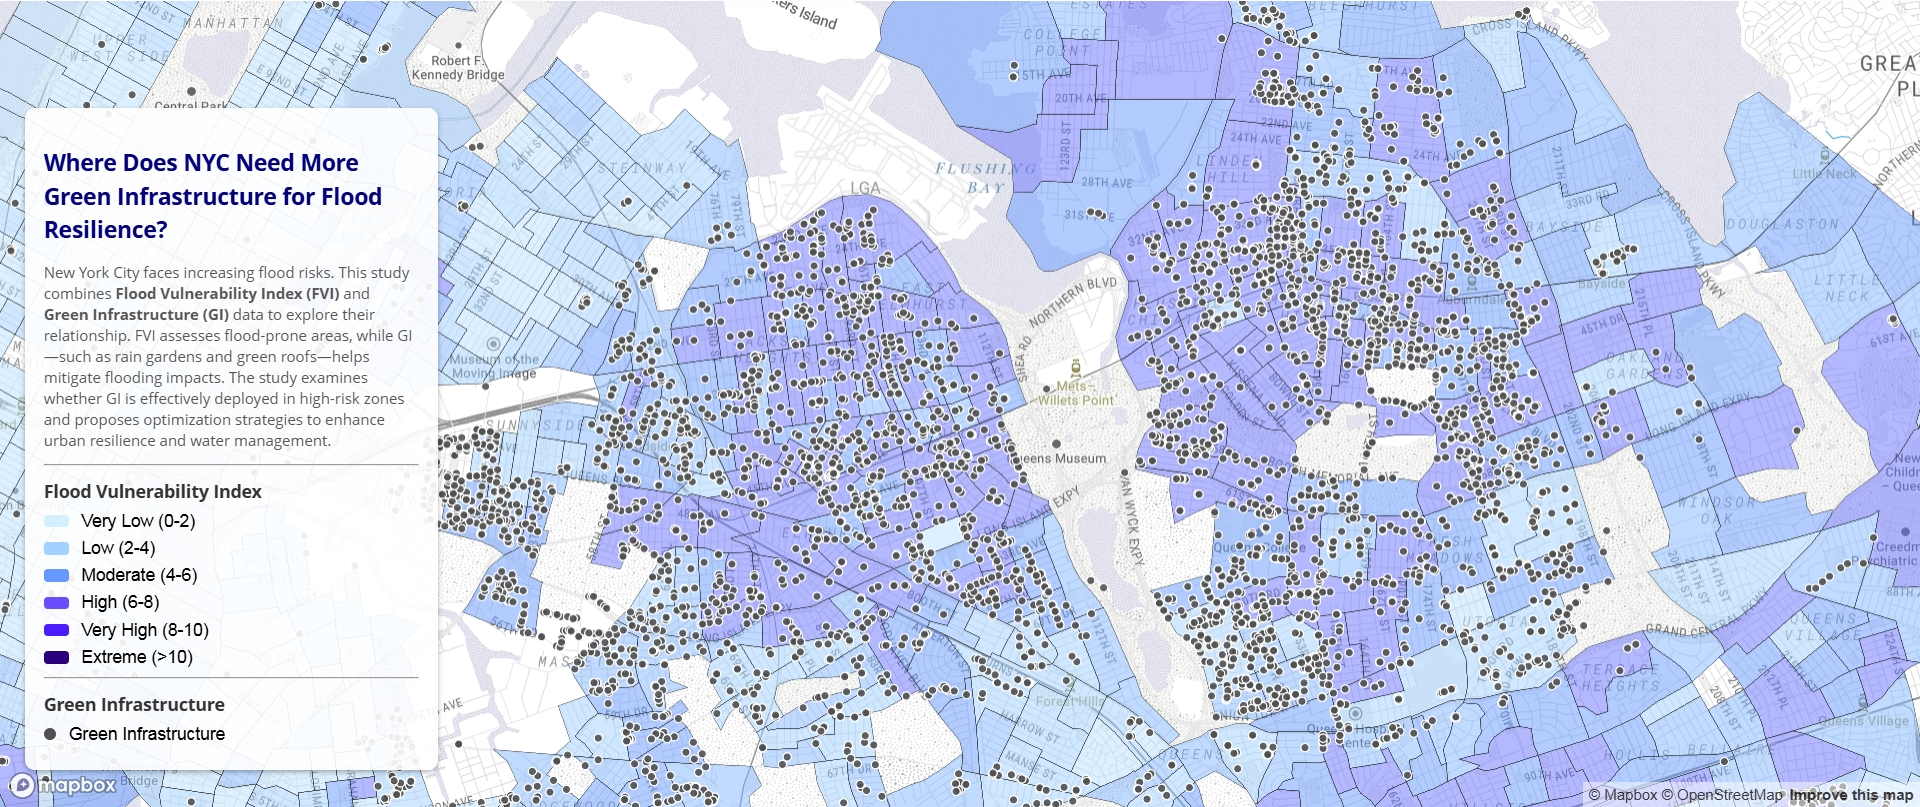
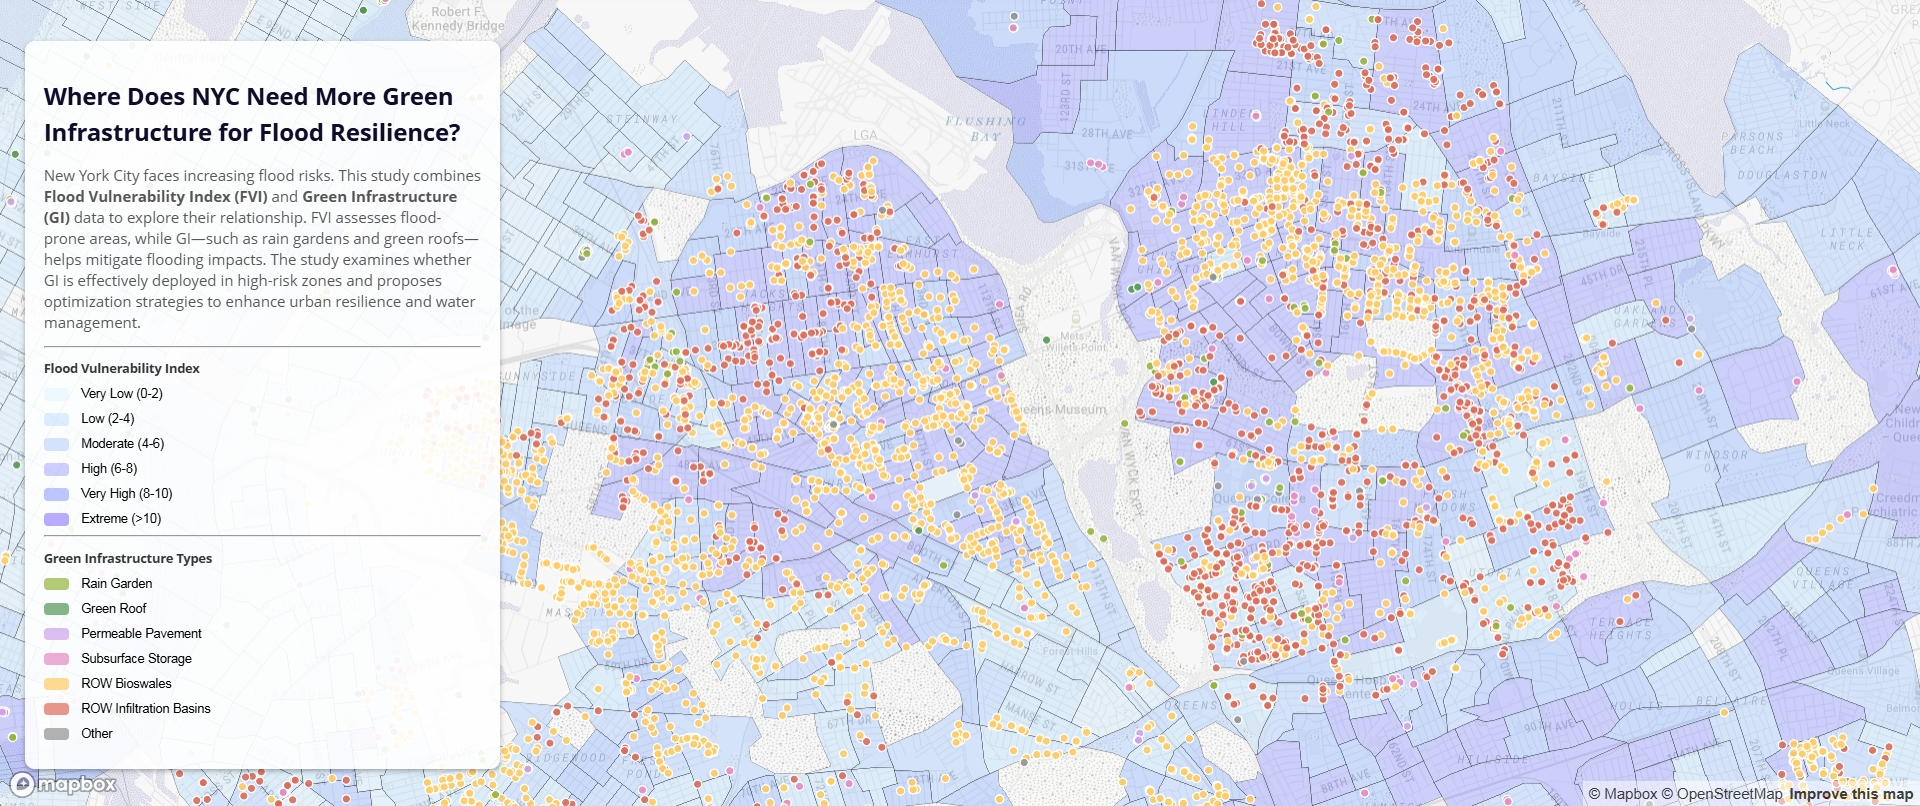
更新了文件（更新了点的颜色）

diff --git a/Assignment_02AfterClass/map.js b/Assignment_02AfterClass/map.js
@@ -2,9 +2,9 @@ mapboxgl.accessToken = "pk.eyJ1Ijoid2VuMyIsImEiOiJjbTZpZGk0dDYwNnhqMm1vaGNtc2pyc
 
 const map = new mapboxgl.Map({
     container: "map",
-    style: "mapbox://styles/wen3/cm6q2kgh700xi01qq9nlq2i76",
+    style: "mapbox://styles/wen3/cm72arjk5001701qqdxwcg5rn",
     zoom: 12,
-    center: [-73.86, 40.75], // Flushing Bay
+    center: [-73.86, 40.745], // Flushing Bay
     maxZoom: 15,
     minZoom: 8,
     maxBounds: [[-74.45, 40.45], [-73.55, 41]]
@@ -33,7 +33,7 @@ map.on('load', function () {
                 8, '#4a1cff',  
                 10, '#2a007f'  
             ],
-            'fill-opacity': 0.5,
+            'fill-opacity': 0.3,
             'fill-outline-color': '#222'
         }
     });
@@ -52,9 +52,35 @@ map.on('load', function () {
         type: 'circle',
         source: 'green-infrastructure',
         paint: {
-            'circle-color': '#505050', // ✅ 统一为绿色
-            'circle-radius': 3.2,
-            'circle-opacity': 0.90,
+            'circle-color': [
+                'match', ['get', 'Asset_Type'],
+                'Rain Garden', '#96b43e',         // 绿松石色
+                'ROWRG', '#96b43e',              // 绿松石色 (Rain Garden)
+                'Green Roof', '#519752',         // 橙色
+                'Combined Blue/Green Roof', '#519752', // 橙色 (Green Roof)
+                'ROW Porous Concrete', '#cea3ea', // 蓝紫色
+                'Permeable Pavers', '#cea3ea',   // 蓝紫色 (Permeable Pavement)
+                'Porous Asphalt', '#cea3ea',     // 蓝紫色
+                'Subsurface Storage', '#E78AC3', // 粉色
+                'Subsurface Detention System', '#E78AC3', // 粉色
+                'Synthetic Turf Field Storage Layer', '#E78AC3', // 粉色
+                'ROWB', '#ffcb63',               // 亮绿色
+                'ROWGS', '#ffcb63',              // 亮绿色
+                'ROWSGS', '#ffcb63',             // 亮绿色
+                'ROW Median', '#ffcb63',         // 亮绿色
+                'ROW Infiltration Basin with Concrete Top', '#dd6c59', // 深蓝色
+                'ROW Infiltration Basin with Grass Top', '#dd6c59', // 深蓝色
+                'ROW Infiltration Basin with Combination of Concrete and Grass Top', '#dd6c59', // 深蓝色
+                /* 其他情况 */
+                '#929292' // 其他 (黄色)
+            ],
+            'circle-radius': [
+                'interpolate', ['linear'], ['zoom'],
+                8, 0.8,   
+                12, 3.2,  
+                15, 9  
+            ],
+            'circle-opacity': 0.9,
             'circle-stroke-width': 1,
             'circle-stroke-color': '#ffffff'
         }
@@ -94,9 +120,10 @@ map.on('load', function () {
             .setLngLat(coordinates)
             .setHTML(`
                 <h4>Green Infrastructure</h4>
-                <p><b>Type:</b> ${props["Type"] || 'Unknown'}</p>
-                <p><b>Location:</b> ${props["Location"] || 'N/A'}</p>
-                <p><b>Status:</b> ${props["Status"] || 'Unknown'}</p>
+                <p><b>Project:</b> ${props["Project_Na"] || 'Unknown'}</p>
+                <p><b>Asset Type:</b> ${props["Asset_Type"] || 'Unknown'}</p>
+                <p><b>NYC Waters:</b> ${props["NYC_Waters"] || 'Unknown'}</p>
+                <p><b>Outfall:</b> ${props["Outfall"] || 'Unknown'}</p>
             `)
             .addTo(map);
     });

diff --git a/Assignment_02AfterClass/index.html b/Assignment_02AfterClass/index.html
@@ -22,26 +22,34 @@
 
     <div id="map"></div> 
   <!-- 📌 Legend 放在 HTML 里 -->
-     <div id="legend">
+    <div id="legend">
       <h2 class="legend-title">Where Does NYC Need More Green Infrastructure for Flood Resilience?</h2>
       <p class="legend-description">
-          New York City faces increasing flood risks. This study combines <strong>Flood Vulnerability Index (FVI)</strong> and 
-          <strong>Green Infrastructure (GI)</strong> data to explore their relationship. FVI assesses flood-prone areas, while GI—such as 
-          rain gardens and green roofs—helps mitigate flooding impacts. The study examines whether GI is effectively deployed in high-risk 
-          zones and proposes optimization strategies to enhance urban resilience and water management.
+        New York City faces increasing flood risks. This study combines <strong>Flood Vulnerability Index (FVI)</strong> and 
+        <strong>Green Infrastructure (GI)</strong> data to explore their relationship. FVI assesses flood-prone areas, while GI—such as 
+        rain gardens and green roofs—helps mitigate flooding impacts. The study examines whether GI is effectively deployed in high-risk 
+        zones and proposes optimization strategies to enhance urban resilience and water management.
       </p>
       <hr>
       <h4>Flood Vulnerability Index</h4>
-      <div><span style="background:#d4f0ff"></span> Very Low (0-2)</div>
-      <div><span style="background:#a2d2ff"></span> Low (2-4)</div>
-      <div><span style="background:#6699ff"></span> Moderate (4-6)</div>
-      <div><span style="background:#6a4cff"></span> High (6-8)</div>
-      <div><span style="background:#4a1cff"></span> Very High (8-10)</div>
-      <div><span style="background:#2a007f"></span> Extreme (>10)</div>
+      <div><span style="background:rgba(212, 240, 255, 0.5)"></span> Very Low (0-2)</div>
+      <div><span style="background:rgba(162, 210, 255, 0.5)"></span> Low (2-4)</div>
+      <div><span style="background:rgba(141, 176, 252, 0.5)"></span> Moderate (4-6)</div>
+      <div><span style="background:rgba(116, 119, 255, 0.5)"></span> High (6-8)</div>
+      <div><span style="background:rgba(77, 98, 255, 0.5)"></span> Very High (8-10)</div>
+      <div><span style="background:rgba(63, 20, 255, 0.5)"></span> Extreme (>10)</div>
       <hr>
-      <h4>Green Infrastructure</h4>
-      <div><span style="background:#505050; border-radius: 50%; width: 10px; height: 10px;"></span> Green Infrastructure</div>
-    </div>
+      <h4>Green Infrastructure Types</h4>
+      <div><span style="background:#96b43e"></span> Rain Garden</div>
+      <div><span style="background:#519752"></span> Green Roof</div>
+      <div><span style="background:#cea3ea"></span> Permeable Pavement</div>
+      <div><span style="background:#E78AC3"></span> Subsurface Storage</div>
+      <div><span style="background:#ffcb63"></span> ROW Bioswales</div>
+      <div><span style="background:#dd6c59"></span> ROW Infiltration Basins</div>
+      <div><span style="background:#929292"></span> Other</div>
+
+  </div>
+
 
     <script src="./map.js"></script>
   </body>

diff --git a/style.css b/style.css
@@ -371,21 +371,22 @@ body {
   position: absolute;
   bottom: 30px;
   left: 20px; /* ✅ 由 right 改成 left */
-  width: 300px;
+  width: 350px;
   background: rgba(255, 255, 255, 0.9);
   padding: 15px;
   border-radius: 8px;
+  font: 1em/1.5em 'Open Sans', sans-serif;
   font-family: Arial, sans-serif;
-  font-size: 14px;
+  font-size: 10px;
   box-shadow: 0 2px 4px rgba(0,0,0,0.3);
 }
 
 /* 📌 让标题左对齐 */
 .legend-title {
   font: 1em/1.5em 'Open Sans', sans-serif;
-  font-size: 18px;
+  font-size: 19px;
   font-weight: bold;
-  color: #02007f;
+  color: #0d0d2b;
   text-align: left; /* ✅ 由 center 改成 left */
   margin-bottom: 10px;
 }
@@ -404,7 +405,7 @@ body {
 #legend h4 {
   font: 1em/1.5em 'Open Sans', sans-serif;
   margin: 10px 0 5px;
-  font-size: 14px;
+  font-size: 10px;
   font-weight: bold;
   color: #333;
   text-align: left; /* ✅ 让所有标题左对齐 */
@@ -416,13 +417,16 @@ body {
   margin-bottom: 5px;
 }
 
+/* 📌 让洪水颜色透明 */
 #legend span {
   width: 20px;
   height: 10px;
   margin-right: 10px;
   display: inline-block;
   border-radius: 3px;
+  opacity: 0.7; /* ✅ 让所有颜色块都有透明度 */
 }
+
 
 
 /* 📌 让导航栏固定在顶部 */
